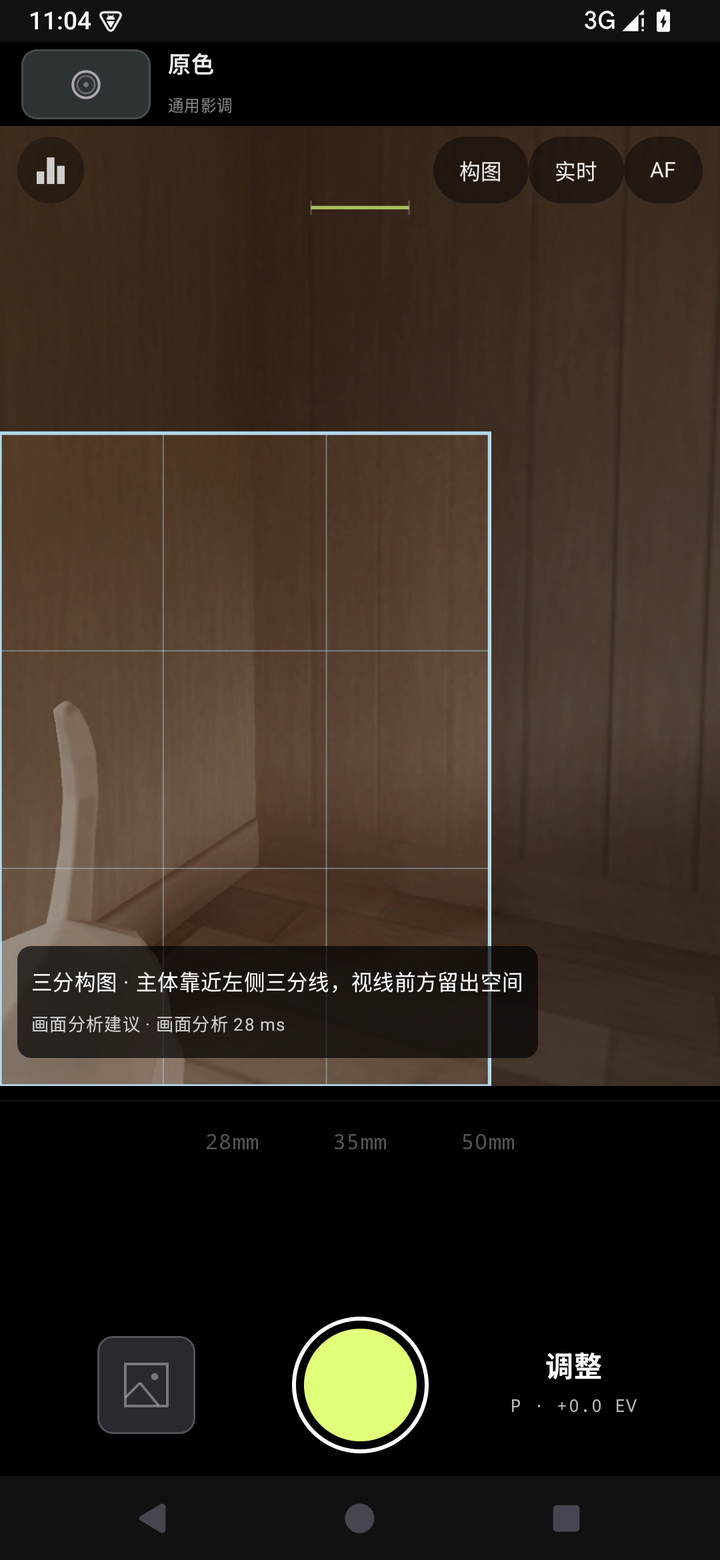
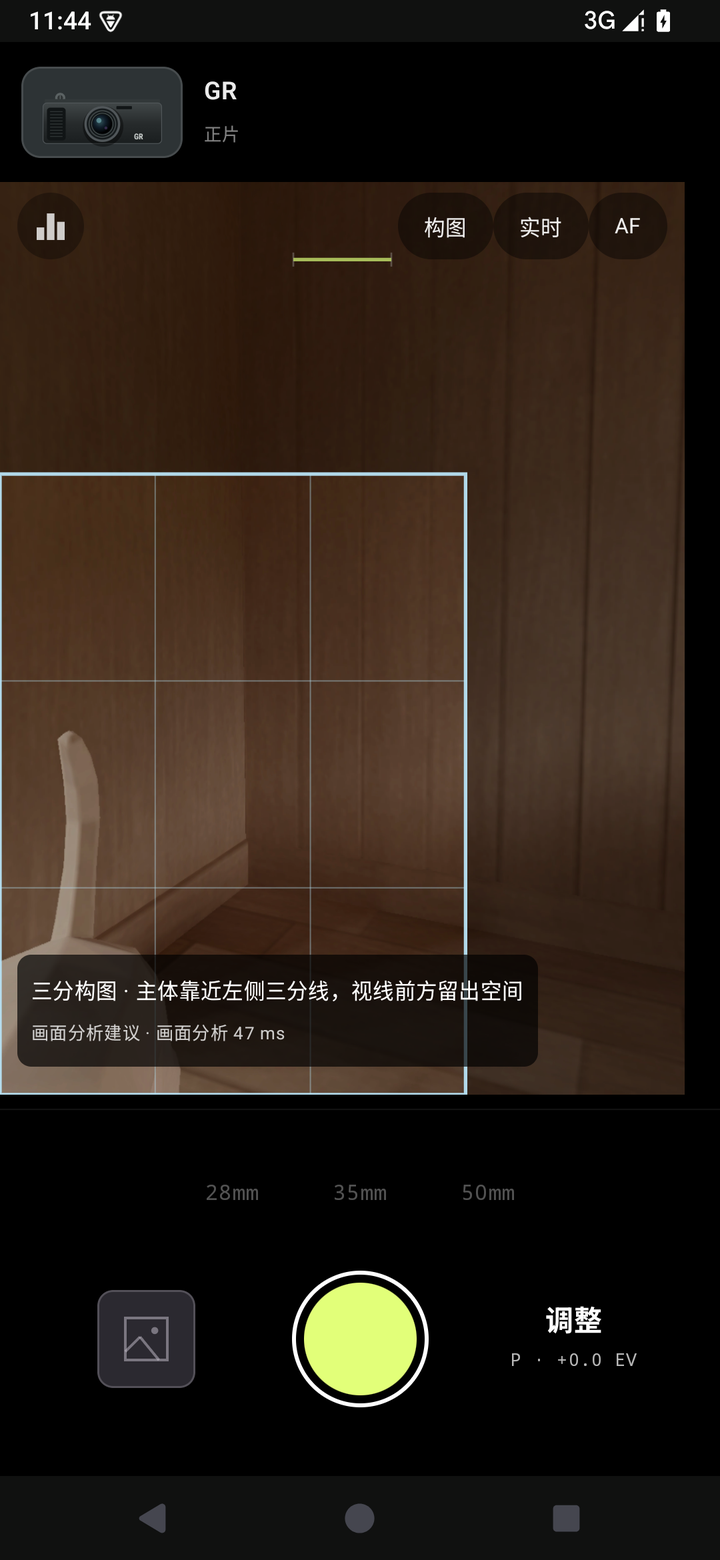
fix: rebalance portrait camera-back proportions (taller plate, centred controls)
On tall 20:9 screens the 3:4 picture is width-locked, so the vertical
slack (~140dp on 1080x2340) all landed inside the control cluster as a
void between the focal row and the shutter, while the 48dp nameplate
cramped the 74x40 camera card. Nameplate grows to 80dp (92x52 card);
chips/focal/shutter now form one vertically centred group with a fixed
14dp focal-shutter gap and matching spacers above/below. Short-screen
budget becomes 218dp; landscape paths unchanged.

diff --git a/app/src/main/java/dev/streetsnap/app/CameraScreen.kt b/app/src/main/java/dev/streetsnap/app/CameraScreen.kt
@@ -234,11 +234,14 @@ fun CameraScreen(activity: MainActivity, model: CameraViewModel = viewModel()) {
                         // Nameplate: follow-look by default (the body tracks the active
                         // look/film family), a pinned body, or hidden entirely.
                         val hideNameplate = settings.mascotCamera == CameraPreferences.HIDDEN
-                        val nameplateHeight = if (hideNameplate) 0.dp else 48.dp
+                        // Tall enough for the body card to read as a camera plate rather than
+                        // a flattened strip (T22: 48dp crowded the 74x40 artwork).
+                        val nameplateHeight = if (hideNameplate) 0.dp else 80.dp
                         // Worst case the cluster can show: divider + paddings + one override
-                        // chip row + focal row + 92dp shutter row. Reserve it up front; on
-                        // short screens the 3:4 picture shrinks a touch instead of clipping.
-                        val clusterMinHeight = 210.dp
+                        // chip row + focal row + fixed focal/shutter gap + 92dp shutter row.
+                        // Reserve it up front; on short screens the 3:4 picture shrinks a
+                        // touch instead of clipping.
+                        val clusterMinHeight = 218.dp
                         val framedWidth = minOf(maxWidth, (maxHeight - nameplateHeight - clusterMinHeight) * 3f / 4f)
                         Column(Modifier.fillMaxSize().background(Color.Black)) {
                             if (!hideNameplate) {
@@ -265,7 +268,7 @@ fun CameraScreen(activity: MainActivity, model: CameraViewModel = viewModel()) {
                                         if (following) adjustmentTab = AdjustmentTab.LOOK
                                         else showMascotPicker = true
                                     },
-                                    modifier = Modifier.fillMaxWidth().height(48.dp))
+                                    modifier = Modifier.fillMaxWidth().height(nameplateHeight))
                             }
                             Viewfinder(model, state, settings, retry, false, compositionSource, compositionOverlay, compositionState,
                                 Modifier.width(framedWidth).aspectRatio(3f / 4f), framed = true, onRetry = { retry++ })
@@ -740,9 +743,9 @@ private fun ViewfinderNameplate(
     Row(modifier.padding(horizontal = 12.dp), verticalAlignment = Alignment.CenterVertically) {
         // Same mid-grey card as the body-picker tiles (#2D3335): the dark vector bodies
         // only separate from a lighter field, not from black chrome.
-        Box(Modifier.size(74.dp, 40.dp).clip(RoundedCornerShape(9.dp))
+        Box(Modifier.size(92.dp, 52.dp).clip(RoundedCornerShape(11.dp))
             .background(Color(0xFF2D3335))
-            .border(1.dp, Color.White.copy(alpha = .12f), RoundedCornerShape(9.dp))
+            .border(1.dp, Color.White.copy(alpha = .12f), RoundedCornerShape(11.dp))
             .clickable(role = Role.Button, onClick = onPick)
             .semantics {
                 contentDescription = if (camera != null) "相机铭牌：${camera.brand} ${camera.model}，点按更换"
@@ -750,14 +753,14 @@ private fun ViewfinderNameplate(
             },
             contentAlignment = Alignment.Center) {
             // Canvas has no intrinsic size; an explicit size is mandatory in the wrapped row.
-            if (camera != null) CameraArtwork(camera, Modifier.size(64.dp, 40.dp))
-            else NeutralLookArtwork(Modifier.size(26.dp))
+            if (camera != null) CameraArtwork(camera, Modifier.size(82.dp, 50.dp))
+            else NeutralLookArtwork(Modifier.size(32.dp))
         }
-        Spacer(Modifier.width(10.dp))
+        Spacer(Modifier.width(12.dp))
         Column {
-            Text(title, color = Color.White.copy(alpha = .92f), fontSize = 13.sp,
+            Text(title, color = Color.White.copy(alpha = .92f), fontSize = 14.sp,
                 fontWeight = FontWeight.SemiBold, maxLines = 1, overflow = TextOverflow.Ellipsis)
-            Text(subtitle, color = Color.White.copy(alpha = .5f), fontSize = 9.sp,
+            Text(subtitle, color = Color.White.copy(alpha = .5f), fontSize = 10.sp,
                 maxLines = 1, overflow = TextOverflow.Ellipsis)
         }
     }
@@ -765,8 +768,9 @@ private fun ViewfinderNameplate(
 
 /**
  * Phone portrait capture surface. Framed mode is an opaque camera-back control cluster
- * beneath the 3:4 screen (focal row hugs the screen, shutter sinks to the bottom); the
- * small-landscape fallback keeps controls floating over the viewfinder on a gradient.
+ * beneath the 3:4 screen (a hairline marks the edge, then chips/focal/shutter sit as one
+ * vertically centred group); the small-landscape fallback keeps controls floating over
+ * the viewfinder on a gradient.
  * Only the high-frequency focal choice and the shutter stay; looks, white balance and
  * other pro controls are surfaced here *only* while a manual override is active (a
  * tappable chip that jumps straight to the right sheet section), otherwise they live
@@ -815,10 +819,14 @@ private fun ViewfinderOverlayBar(
     val chrome = if (framed) Modifier.background(Color.Black)
         else Modifier.background(Brush.verticalGradient(listOf(Color.Transparent, Color.Black.copy(alpha = .58f))))
     Column(modifier.then(chrome)
-        .padding(top = if (framed) 8.dp else 46.dp, bottom = if (framed) 6.dp else 10.dp),
+        .padding(top = if (framed) 8.dp else 46.dp, bottom = if (framed) 8.dp else 10.dp),
         horizontalAlignment = Alignment.CenterHorizontally) {
         // Hairline that separates the 3:4 screen from the camera-back control cluster.
         if (framed) HorizontalDivider(thickness = .8.dp, color = Color.White.copy(alpha = .07f))
+        // Framed mode: the control group (chips, focal, shutter) is vertically centred as
+        // one block, so on tall 20:9 screens the slack splits above/below it instead of
+        // opening a void between the focal row and the shutter (T22).
+        if (framed) Spacer(Modifier.weight(1f))
         // Active manual overrides: visible tappable reminders that jump to the section.
         if (overrides.isNotEmpty()) {
             Row(Modifier.fillMaxWidth().padding(horizontal = 14.dp, vertical = if (framed) 3.dp else 4.dp)
@@ -832,7 +840,8 @@ private fun ViewfinderOverlayBar(
             }
         }
         // Focal lengths: the one pro control worth keeping on the capture screen.
-        Row(Modifier.padding(bottom = if (framed) 4.dp else 6.dp).clip(RoundedCornerShape(22.dp))
+        // In framed mode it belongs to the shutter group with a fixed, deliberate gap.
+        Row(Modifier.padding(bottom = if (framed) 14.dp else 6.dp).clip(RoundedCornerShape(22.dp))
             .background(Color.Black.copy(alpha = .42f)).padding(4.dp),
             horizontalArrangement = Arrangement.spacedBy(2.dp), verticalAlignment = Alignment.CenterVertically) {
             focalLengths.forEach { focal ->
@@ -853,9 +862,6 @@ private fun ViewfinderOverlayBar(
                 }
             }
         }
-        // Framed mode: focal row hugs the screen above while the shutter row rests on the
-        // bottom of the control cluster; any extra height is absorbed here, never as a void.
-        if (framed) Spacer(Modifier.weight(1f).heightIn(min = 6.dp))
         Row(Modifier.fillMaxWidth().height(92.dp), verticalAlignment = Alignment.CenterVertically,
             horizontalArrangement = Arrangement.SpaceEvenly) {
             Box(Modifier.weight(1f, fill = false).width(80.dp).height(72.dp), contentAlignment = Alignment.Center) {
@@ -887,6 +893,8 @@ private fun ViewfinderOverlayBar(
                     color = Color.White.copy(alpha = .72f), maxLines = 1, overflow = TextOverflow.Ellipsis)
             }
         }
+        // Counterweight to the leading spacer: keeps the whole control group centred.
+        if (framed) Spacer(Modifier.weight(1f))
     }
 }
 

diff --git a/docs/images/README.md b/docs/images/README.md
@@ -2,7 +2,7 @@
 
 图片来自安装在 Android 15（API 35）ARM64 模拟器上的 Preview APK（2026-10-18，竖屏相机背式三段布局；铭牌随影调族联动；取景 OSD 默认关闭）。取景为模拟器内置 virtualscene 测试房间，截图不代表荣耀 Vs3 真机或实际摄影效果。
 
-- `viewfinder.png`（720×1560，竖屏 1080×2340 截图缩放）：竖屏为相机背式三段布局——顶部铭牌（默认「跟随影调」：机身随当前影调/胶片所属品牌族切换，此图为通用影调的镜头标 + 影调名；理光族显示 GR、富士族 X100VI、适马族 fp、松下族 LX100；跟随态点按直达影调面板，固定机身时点按打开相机选择）、精确 3:4 取景屏、不透明控制簇（细分隔线下焦段分段条贴屏，弹性留白后缩略图/居中快门/「调整」沉底），无 letterbox 死黑带；取景屏内为三分网格、画面分析（规则）蓝色推荐框与中文建议卡，顶部右侧构图/实时/AF 胶囊，顶部居中为机背刻度式水平仪（水平时荧光绿，不再压在画面正中）；左上角小圆钮是取景信息开关，在「关闭（此图默认）→ 亮度直方图 → 直方图+P/S/M·快门·ISO·EV 只读参数」间循环，直方图取自实时分析帧、自动项显 AUTO、设备不报告光圈时不显示光圈行；状态行实时显示来源与耗时（此图为「画面分析建议 · 画面分析 28 ms」；模型超时或两轮不一致时如实保留蓝框并标注超时）。宽横屏 ≥600dp 仍走全控件侧栏、取景器不缩的原路径。
+- `viewfinder.png`（720×1560，竖屏 1080×2340 截图缩放）：竖屏为相机背式三段布局——80dp 顶部铭牌（默认「跟随影调」：机身随当前影调/胶片所属品牌族切换，此图为理光正片影调的 GR + 影调名；富士族显示 X100VI、适马族 fp、松下族 LX100、通用影调为镜头标；跟随态点按直达影调面板，固定机身时点按打开相机选择）、精确 3:4 取景屏、不透明控制簇（细分隔线之下，覆盖药丸/焦段分段条/缩略图/居中快门/「调整」作为一个整体在簇内垂直居中，焦段与快门为固定 14dp 间距而非大空当），无 letterbox 死黑带；取景屏内为三分网格、画面分析（规则）蓝色推荐框与中文建议卡，顶部右侧构图/实时/AF 胶囊，顶部居中为机背刻度式水平仪（水平时荧光绿，不再压在画面正中）；左上角小圆钮是取景信息开关，在「关闭（此图默认）→ 亮度直方图 → 直方图+P/S/M·快门·ISO·EV 只读参数」间循环，直方图取自实时分析帧、自动项显 AUTO、设备不报告光圈时不显示光圈行；状态行实时显示来源与耗时（此图为「画面分析建议 · 画面分析 47 ms」；模型超时或两轮不一致时如实保留蓝框并标注超时）。宽横屏 ≥600dp 仍走全控件侧栏、取景器不缩的原路径。
 - `camera-picker.png`（720×1560）：控制面板「拍摄」分区→「相机设置」里的取景器相机弹窗，六张卡片：首张「跟随影调」（默认，顶部机身随影调或胶片变化）+ 五款可固定机身，底部「不显示」可彻底隐藏铭牌（预览相应变高），另有取景方向（自动/横持/竖持）。五款机身按真机轮廓特征区分（原创矢量、非产品图）：理光 GR 扁宽平顶+左侧握把+居中定焦镜头，富士 X100VI 银色顶盖+左右双转盘+右上混合取景方窗+银环镜头，适马 fp 直角方块+无握把无窗+四角螺丝+居中卡口，松下 LX100 II 非对称台阶顶（左双转盘、右上 EVF 高台）+突出大镜头+小握把，尼康 F3 高耸五棱镜+过片扳手+握把红竖线；影调分区顶栏的同款缩略图为 76×48dp。
 - `edge-models.png`（720×1560）：控制面板「拍摄」分区底部的构图辅助管理——推荐框/实时两个开关、三个可选端侧模型（SmolVLM 256M/500M、d1 决策 600M）与已安装 417.7MB 状态。「模型：」行与高亮芯片如实显示当前实际选用的 ranker：默认即 d1 决策 600M（与 README 模型表一致；运行时按所选模型 id 的 kind 分发，UI 不写死模型名），此图为 d1 芯片高亮、已安装 417.7MB。状态行是真实的「画面分析建议 · 画面分析 2 ms · AI 比较超时 · 30.3 秒」：d1 双轮在该模拟器软件渲染下超过 30s 总预算，界面超时降级、保留画面分析建议，副文案随状态切为「模型比较超时，保留图像构图建议」。
 - `model-adoption.png`（1170×540，横屏原尺寸未缩放）：端侧模型通过门闸、推荐框升级为黄色「AI 选择」的真实截图。

diff --git a/docs/camera-ui-research.md b/docs/camera-ui-research.md
@@ -188,3 +188,16 @@
 **验证（emulator-5580，1080×2340）**：OFF 默认纯净；HISTOGRAM 角钮高亮、直方图随暗场景真实集中暗部（与画面一致）；PARAMS 显 `P / EV +0.0 / 快门 AUTO / ISO AUTO`、无光圈行；第三击回 OFF；**force-stop 冷启动后 HISTOGRAM 态与直方图数据均保留**；构图建议卡（左下）与右上 OSD 不重叠。SettingsJsonTest 新增默认 OFF/三态往返/未知值回退 OFF/循环顺序用例，全量 `testDebugUnitTest` + `:app:assemblePreview` 通过。
 
 **未能在模拟器验证（代码走查，留真机）**：① 水平仪倾斜转动——emulator console 只能注入 acceleration（TYPE_ACCELEROMETER），而 app 优先消费不可注入的 TYPE_GRAVITY；水平态荧光绿已实测，旋转几何为同一 cos/sin 数学。② S/M 手动档真实快门/ISO 读数——该 AVD 模拟镜头 S/M/A 均灰禁不支持；数值通路与拍摄面板、"调整"钮副标题共用同一 `CaptureSettings` 字段与 `shutterLabel()` 格式化。③ 横屏 framebuffer 不翻转旧疾（第四节 b13/b14），位置参数按顶部/右上对齐做了走查。
+
+## 八、T22：三段比例再分配——铭牌加高、控件成组（2026-10-18）
+
+**问题（用户反馈）**：T18 三段式在 20:9 长屏上（1080×2340 / 420dpi，可用 411×891dp）比例失衡——3:4 屏宽占满即 411×548dp，垂直富余约 140dp 全部落进控制簇；而 T18 的簇实现是"焦段贴分隔线、快门沉底、中间 `Spacer(weight 1f)`"，于是焦段与快门之间撑出约 140dp 的巨大中空；与此同时顶部铭牌只有 48dp、74×40 摆件卡几乎占满条高，被压得很扁。
+
+**再分配**（只改竖屏 Column 路径，宽横屏侧栏与小横屏浮层不动）：
+1. 铭牌 48dp → **80dp**：摆件卡 74×40 → 92×52dp、机身 Canvas 64×40 → 82×50dp、中性镜头标 26 → 32dp，标题 13 → 14sp / 副标题 9 → 10sp；点按热区随之变大。
+2. 控制簇改为**整组垂直居中**：分隔线仍贴簇顶不动；其下新增一个 leading `Spacer(weight 1f)`，删除焦段与快门之间那个撑空的 weight Spacer，快门行后加等重的 trailing Spacer——chip 行/焦段/快门因此成为一个紧凑整体（焦段↔快门固定 14dp），长屏富余高度在组的**上下对称分配**，而不是在两个相关控件之间开天窗；chip 行出现时上下 Spacer 同步收缩。
+3. 短屏预算 `clusterMinHeight` 210 → 218dp（覆盖新的 14dp 组内间距），`framedWidth = min(maxWidth, (maxHeight - 80dp - 218dp) * 3/4)`，短屏仍然只缩屏、不裁控件。
+
+**AVD 验证（emulator-5580）**：默认态铭牌 GR 卡比例舒展、标题垂直居中；焦段与快门间距 14dp 视觉紧凑、上下留白对称；EV +2.0 覆盖药丸出现时整组增高不溢出；HIDDEN 铭牌时预览顶到状态栏、获得全部 80dp；跟随/正片 GR 铭牌语义节点保持「相机铭牌：理光 GR，点按更换」。`testDebugUnitTest` 全过、`:app:assemblePreview` 通过；重截 viewfinder.png。
+
+**未变**：3:4 屏宽度占满后高度物理锁定（WYSIWYG 共享 ViewPort 坐标不允许铺满裁切，见第五节），长屏富余空间只能分配给上下 chrome——80dp 铭牌 + 居中控件组即此约束下的均衡解；荣耀 Vs3 真机比例（内外屏）仍待实机确认。

diff --git a/README.md b/README.md
@@ -41,7 +41,7 @@
 
 ## 最近更新（v0.3 预览）
 
-- **相机背式取景页**：竖屏改为「顶部铭牌 + 与成片同比例的 3:4 取景屏 + 实体控制簇」三段布局，中间不留黑带；焦段条贴屏、居中快门与"调整"入口沉底。
+- **相机背式取景页**：竖屏为「顶部铭牌 + 与成片同比例的 3:4 取景屏 + 实体控制簇」三段布局，中间不留黑带；80dp 铭牌让相机机身舒展可辨，焦段、快门与"调整"入口作为一组在控制簇内居中，长屏上不再出现断裂的空当。
 - **铭牌跟随影调族**：顶部相机不再是独立摆件——默认随当前影调 / 胶片显示对应品牌机身（理光、富士、适马、松下；通用影调显示中性镜头标），也可固定一款或彻底隐藏；跟随态点按铭牌直达影调面板。
 - **取景器 OSD 可选显示**：左上角小角钮在「关闭 → 亮度直方图 → 直方图 + 拍摄参数」之间循环，默认关闭、保持纯粹。直方图取自实时分析帧而非装饰；参数行只显示相机真实报告的值（P/S/M 档、快门、ISO、EV），自动档显示 AUTO，手机不报告的光圈绝不虚构。水平仪从画面正中移到顶部机背刻度式位置。
 - **一块控制面板**：影调、胶片配方、白平衡、P/S/M 与构图模型管理全部收进底部升起的单一面板。任何手动覆盖（非自动白平衡、MF、S/M 档、EV、柔光）都会显示一枚小药丸：点按直达对应设置，**长按一键复位**。
